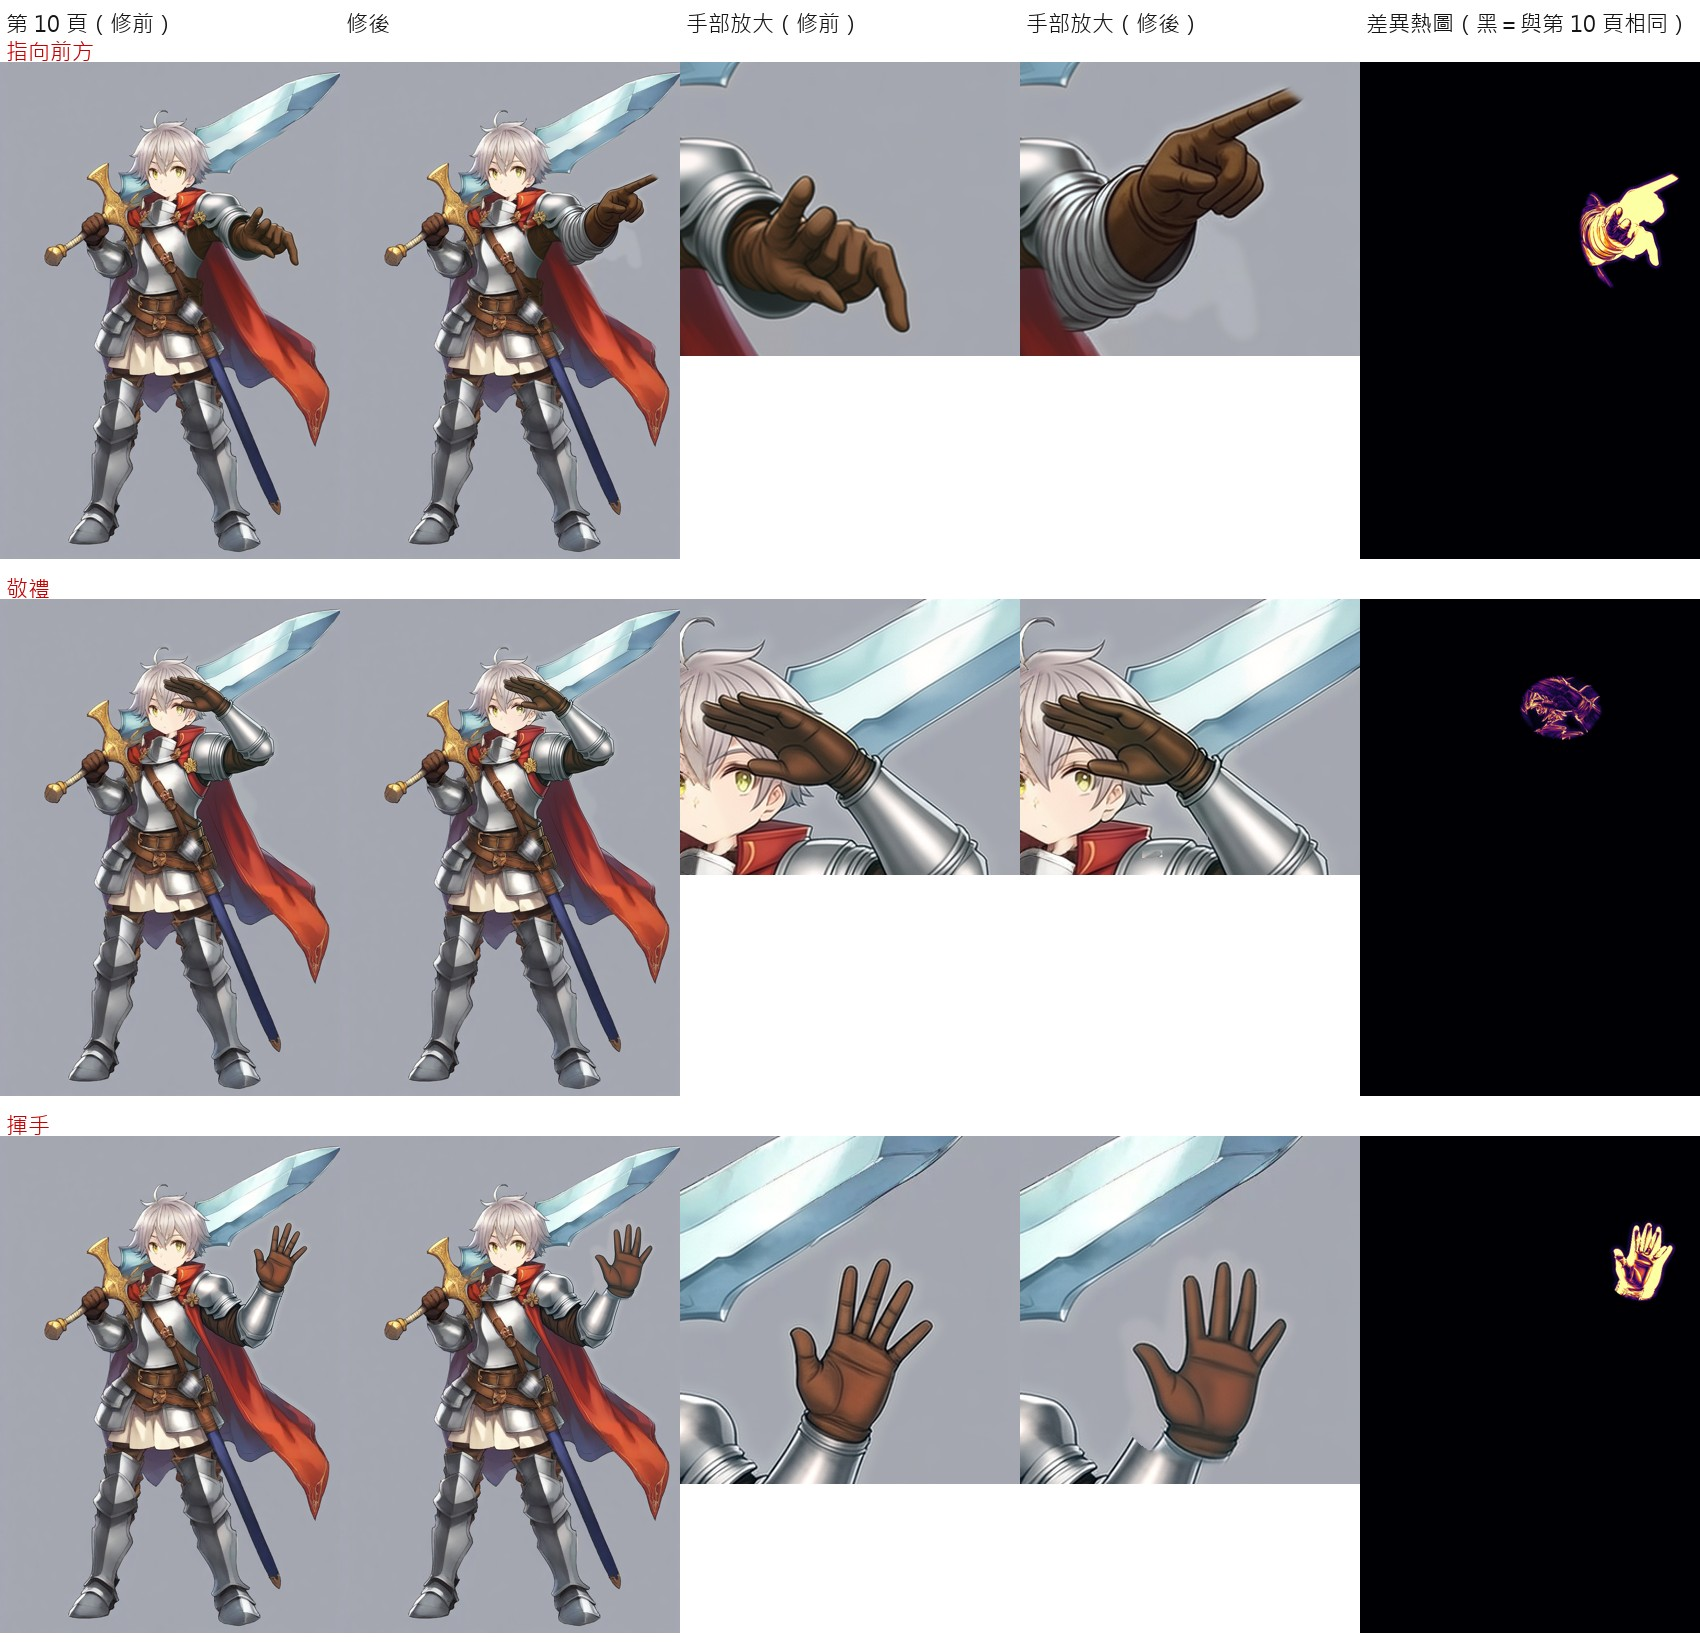
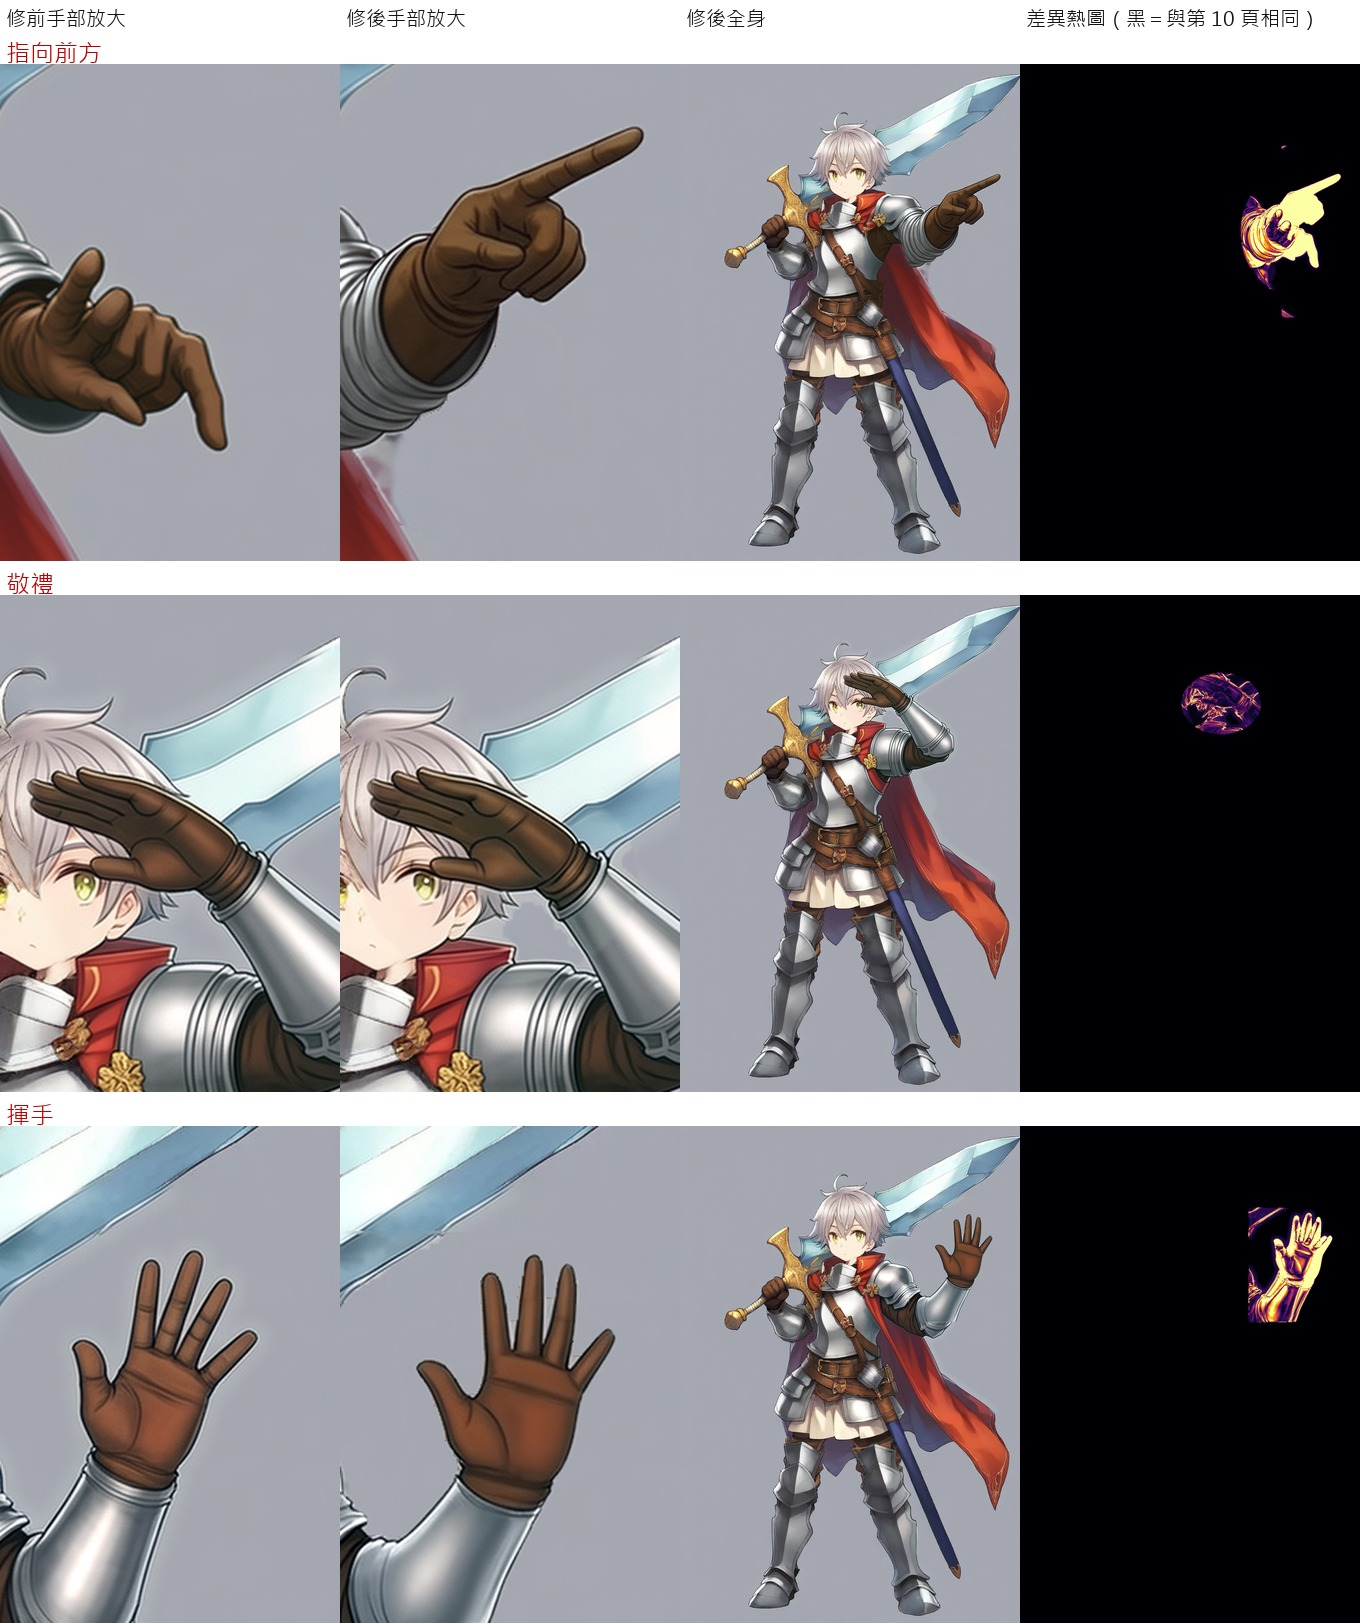
Demo 2 v4：只貼人物前景像素重新合成，去除灰暈；版面改為四等分

diff --git a/docs/experiments/2026-11-03-demo/v4/README.md b/docs/experiments/2026-11-03-demo/v4/README.md
@@ -18,16 +18,20 @@ date: 2026-11-04
 - 貼回區域內的肩甲與手臂是候選版本，外觀接近但線條與原圖不完全相同。
 - 單一素材、目視挑選；挑選時沒有逐張統計各姿勢的正確率。
 
-## Demo 2 v4：在第 10 頁成品上修手掌（接續編修）
-做法：以第 10 頁的三張成品（揮手 seed 10、指向 seed 11、敬禮 seed 6）當來源，`pose-edit run --custom` 每種各 12 個 seed（只改右側那隻手的手形、其餘保持），候選對位後只把「手＋手腕」的小橢圓區域貼回第 10 頁成品（顏色以區域外一圈的人物像素對齊、羽化 7 像素）；原本的舊手若不在新手範圍內，用原圖 A.png 的背景補回。圖：`demo2_fix_palms.jpg`（每種姿勢：第 10 頁修前｜修後｜手部放大前後｜與第 10 頁的差異熱圖）；數字：`data/demo2_fix_palms.json`。
+## Demo 2 v4（第二版重新合成）：在第 10 頁成品上修手掌，無灰暈
+來源：第 10 頁三張成品（揮手 seed 10、指向 seed 11、敬禮 seed 6）；`pose-edit run --custom` 每種 12 個 seed，挑 指向 2／敬禮 6／揮手 8（不重新生成，只重新合成）。
+合成方式（v4b）：只貼回候選的「人物前景像素」（以與背景色的差異取遮罩、補洞、邊緣羽化約 1 像素），不再貼整個橢圓；顏色只用人物像素對齊；第 10 頁舊手以及第 10 頁貼回時留下的淡灰暈，若沒有被新手蓋住，一律換回原圖 A.png 的像素（原圖貼回的元素若是舊肘甲碎片，則用周圍背景修補）。
+圖：`demo2_fix_palms.jpg`（每種姿勢一排：修前手部放大｜修後手部放大｜修後全身｜與第 10 頁的差異熱圖）；數字：`data/demo2_fix_palms.json`。
 
-| 姿勢 | 試過／挑中 seed | 貼回手部區域像素 | 區域外相對第 10 頁變動 | 相對 A.png、第 10 頁已編輯區域之外變動 |
-|---|---|---|---|---|
-| 指向前方 | 12／2 | 44,262 | **0** | **0** |
-| 敬禮 | 12／6 | 28,097 | **0** | **0** |
-| 揮手 | 12／8 | 25,807 | **0** | **0** |
+| 姿勢 | 試過／挑中 seed | 新手前景像素 | 擦掉的舊手像素 | 區域外相對第 10 頁變動 | 相對 A.png、第 10 頁已編輯區域之外變動 |
+|---|---|---|---|---|---|
+| 指向前方 | 12／2 | 29,666 | 8,507 | **0**（974,419 個） | **0** |
+| 敬禮 | 12／6 | 23,336 | 1,333 | **0**（987,508 個） | **0** |
+| 揮手 | 12／8 | 30,038 | 10,937 | **0**（973,066 個） | **0** |
 
-- 指向：食指伸直朝前上方、其餘手指握緊、拇指收起，比修前清楚；但新手略大，手腕護甲環比修前多一圈，周圍背景有淡淡的灰暈（色調對位不完美）。
-- 敬禮：四指併攏、掌心平，指尖在眉上；修後與修前差異主要在手指形狀，變化最小。
-- 揮手：五指張開、掌心朝鏡頭，與修前相比手指更清楚；手周圍同樣有很淡的灰暈。
-- 12 個候選中有多張手形不符（指向多為豎食指、V 字或握拳；敬禮多為手貼額但手指分開），挑選是目視判斷，沒有逐張統計。
+3 倍放大檢查（目視，逐張）：
+- 指向前方：舊手完全擦掉，沒有殘指、沒有手腕下方灰塊；食指尖完整；手腕護甲邊緣極少量淺色細邊。
+- 敬禮：乾淨，沒有灰暈；但手要碰額頭，貼回區包含額頭與頭髮的一小塊，該處是候選版本，差異熱圖顯示該處有變動。
+- 揮手：手掌邊緣乾淨，沒有灰暈；指縫間有零星一兩個淺褐色像素點；熱圖是方形，因為要把第 10 頁留下的舊灰暈一併換回原圖背景。
+- 這一版比第一版少了「手周圍的灰色光暈」，但不保證任何放大倍率下都沒有細微邊緣色差。
+- 12 個候選中很多手形不符（指向多為豎食指、V 字或握拳；敬禮多為手指分開），挑選是目視判斷，沒有逐張統計。單一素材。
